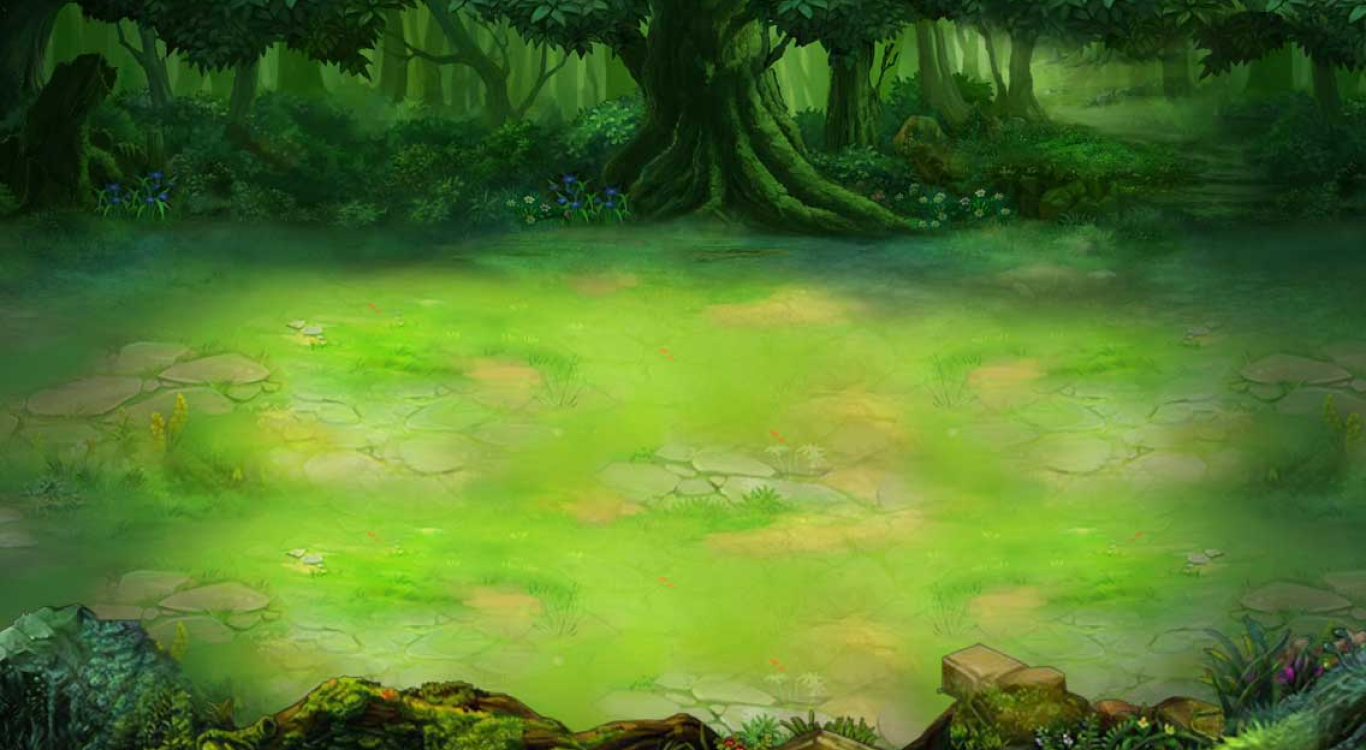
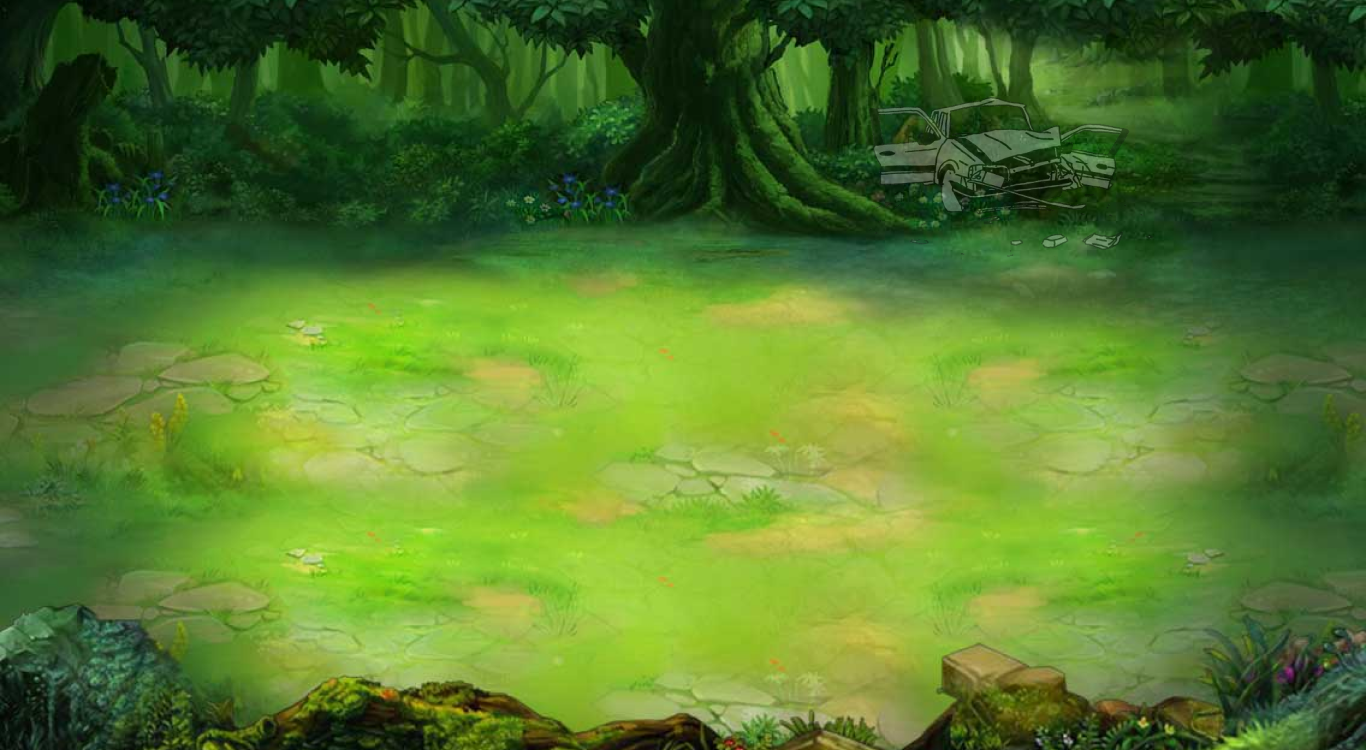
Frame add

Changed region(s): [[0.6457, 0.1227, 0.8302, 0.276], [0.7687, 0.3067, 0.8302, 0.3373]]

diff --git a/src/scss/game.scss b/src/scss/game.scss
@@ -34,6 +34,16 @@
     top: 72px;
   }
 
+  .background__frame {
+    background-image: url('/screens/img/Cadre.png');
+    position: absolute;
+    width: 371px;
+    height: 264px;
+    left: 1070px;
+    top: 199px;
+    z-index: 2;
+  }
+
   .background__profile {
     position: absolute;
     width: 162px;

diff --git a/src/js/script.js b/src/js/script.js
@@ -2,7 +2,7 @@
 oxo.screens.loadScreen('home', function() {
 const btn = document.querySelector('.Menu__play')
  btn.addEventListener("click", function(){
-    oxo.screens.loadScreen('game3')
+    oxo.screens.loadScreen('game')
 
 
  })
